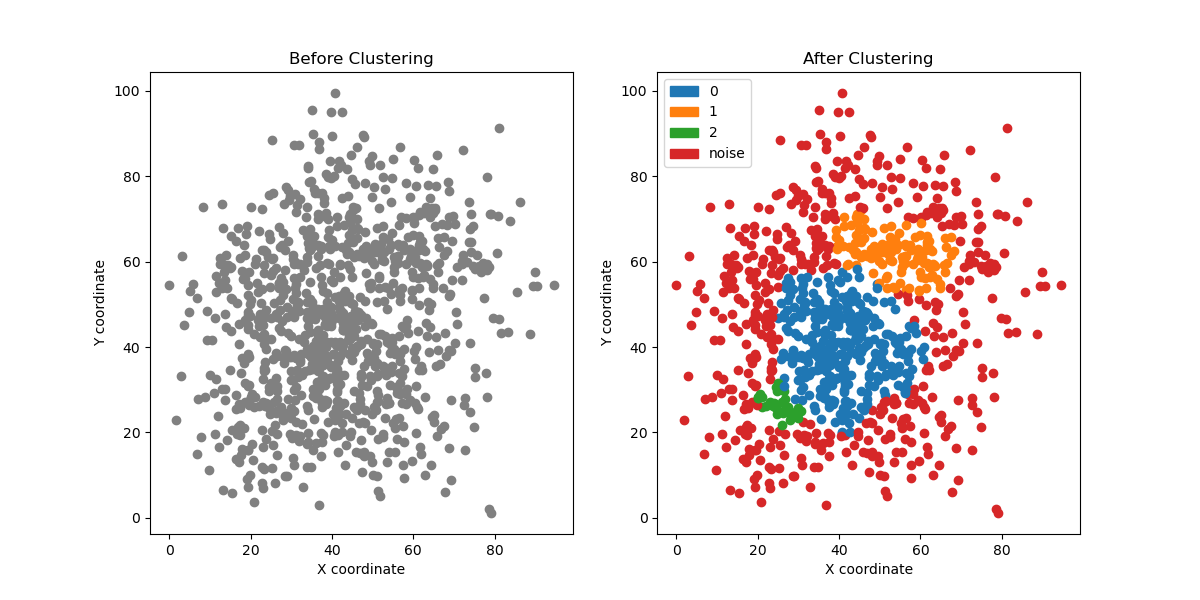
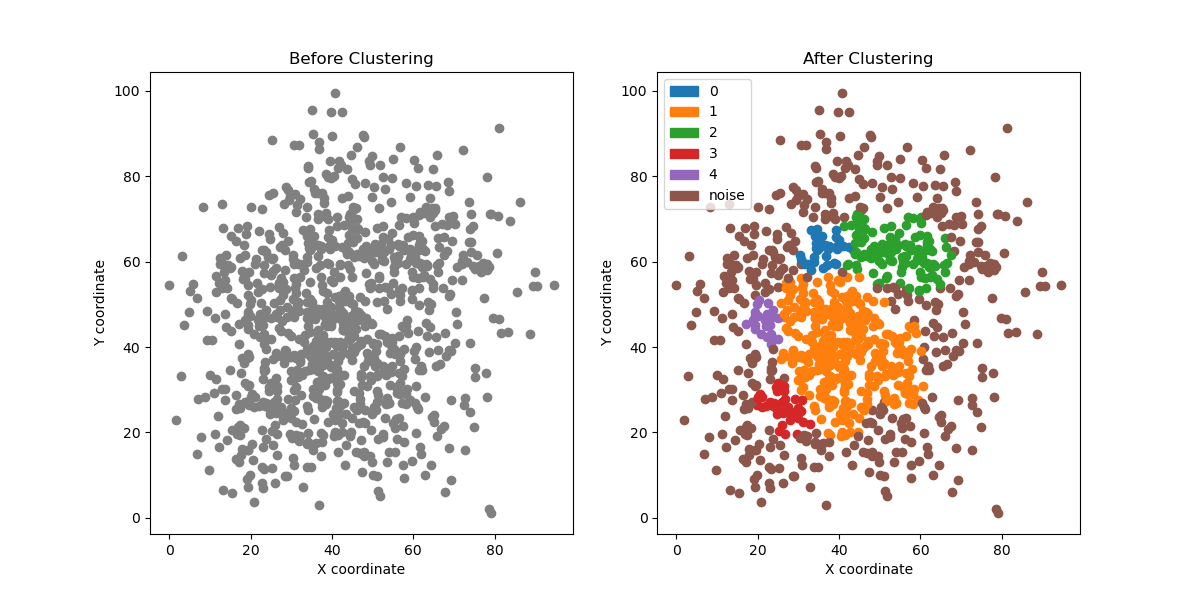
20240402_1636 finish

Changed region(s): [[0.555, 0.15, 0.8633, 0.84], [0.8633, 0.45, 0.8942, 0.48], [0.8017, 0.84, 0.8325, 0.87]]

diff --git a/my_clustering.py b/my_clustering.py
@@ -143,7 +143,7 @@ if __name__ == "__main__":
     file_names=os.listdir(directory)
     file_names=sorted(file_names)
     #print(file_names)
-    arguments=[[8,39],[8,33],[7,31],[5,39],[6,37]]
+    arguments=[[8,39],[8,33],[7,31],[5,39],[5,25]]
     for i in range(len(file_names)):
         file_name=file_names[i]
         full_path=os.path.join(directory,file_name)

diff --git a/README.md b/README.md
@@ -48,8 +48,8 @@
 
 
 * ### Clusrering_test5
-    * #### eps:6
-    * #### minPts:37
-    * #### num of cluster:3 (without noise)
+    * #### eps:5
+    * #### minPts:25
+    * #### num of cluster:5 (without noise)
     * #### plot:
 ![alt text](Figure_5.png)

diff --git a/P76124752/README.md b/P76124752/README.md
@@ -1,5 +1,8 @@
 # Clustering
 > python my_clustering.py
+
+
+> github:https://github.com/shangyuan191/Clustering
 ## Experiments
 > Using DB-SCAN algorithm,and perform grid search method to find the better (eps,minPts).
 ![alt text](image.png)
